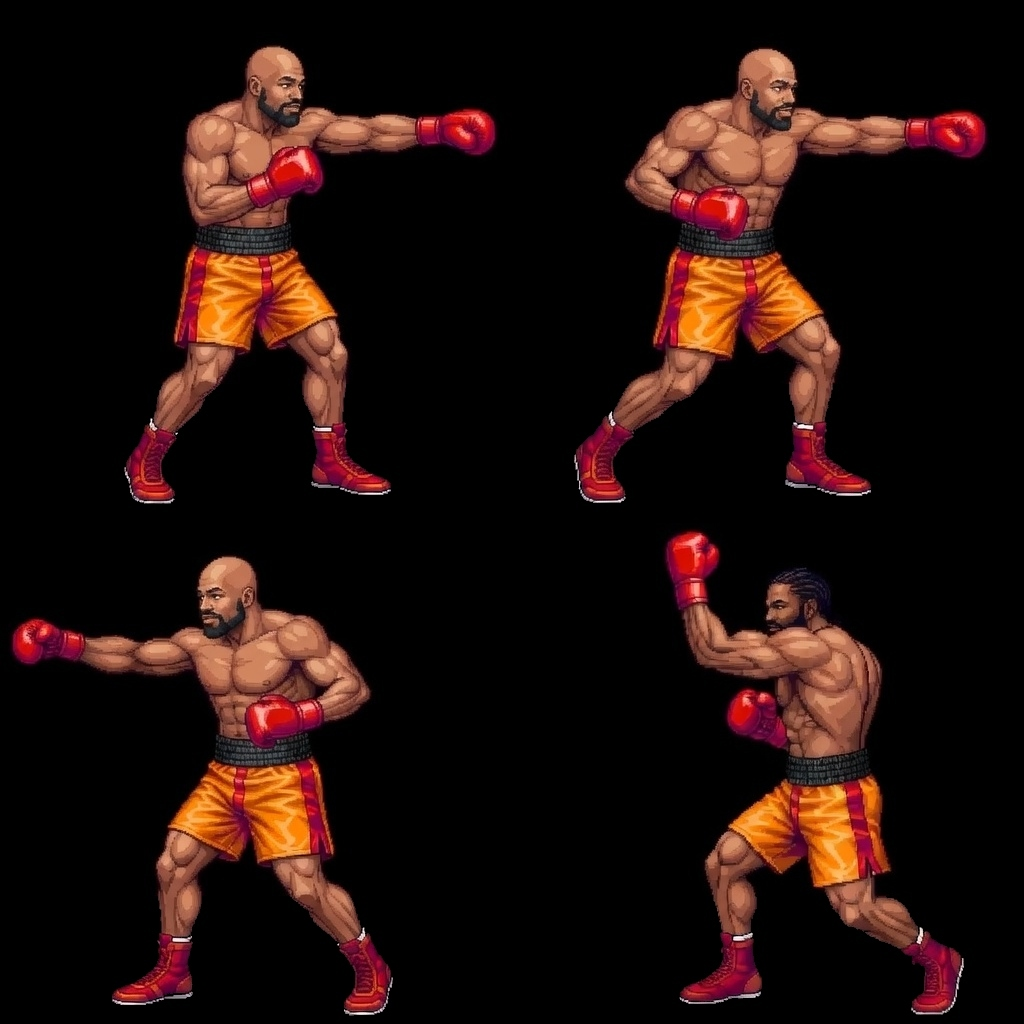
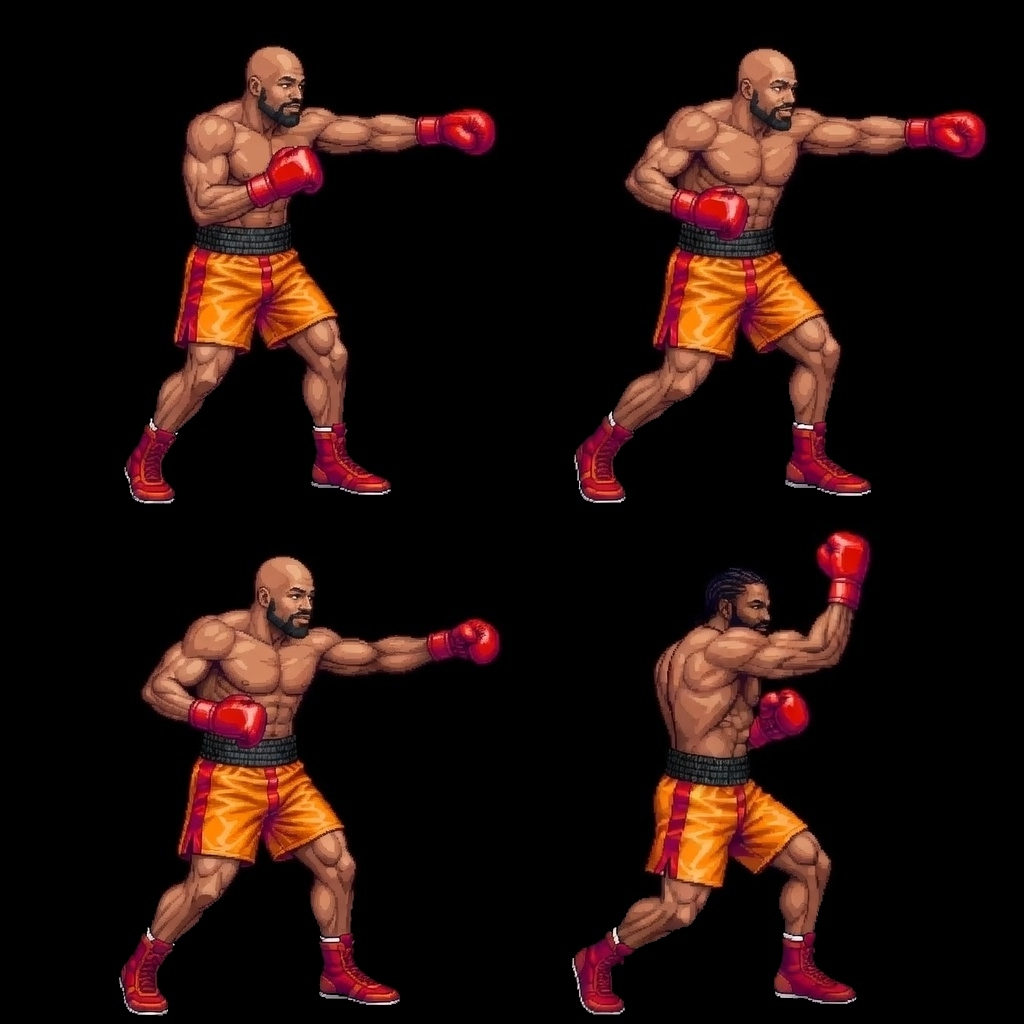
Release v2.0.0: Street Fighter Authentic Punch Animation & Roster UI Polish
Restore Capcom-style 4-quadrant sprite frame swaps during JAB,
STRAIGHT, HOOK, and UPPERCUT attacks with 3-phase strike kinematics.
Normalize all 56 punch frames to face forward into the center ring.
Add Fighter Profile Bio Screen (FIGHTER_BIO), Arena Stage Select
(ARENA_SELECT) with dynamic combat arena theming, and character
select grid polish with 2P local controls.

Constraint: 16-color PICO-8 aesthetic and fixed 128x128 resolution
Constraint: GitHub Pages deploy workflow uploads repo root
Confidence: high
Scope-risk: moderate
Directive: Do not replace punch sprite frames with procedural draw calls
Tested: 38 automated test cases in headless Chrome (states, bio, arena, combat)
Tested: 56/56 in-game punch animation captures across all 14 fighters

Changed region(s): [[0.5625, 0.5, 0.9375, 1.0], [0.0, 0.5312, 0.5, 1.0]]

diff --git a/index.html b/index.html
@@ -3,7 +3,7 @@
 <head>
   <meta charset="UTF-8">
   <meta name="viewport" content="width=device-width, initial-scale=1.0, maximum-scale=1.0, user-scalable=no, viewport-fit=cover">
-  <title>CRASH OUT: RING RUSH (v1.9.0) — PICO-8 Native Transparent Boxing</title>
+  <title>CRASH OUT: RING RUSH (v2.0.0) — PICO-8 Native Transparent Boxing</title>
   <style>
     :root {
       --pico-black: #000000;
@@ -2135,15 +2135,61 @@
     let deenIdleCanvas = null;
     deenIdleRaw.onload = () => { deenIdleCanvas = createTransparentCanvas(deenIdleRaw); };
 
+    const PUNCH_FLIPS = {
+      'broner': [0, 3],      // JAB, UPPERCUT
+      'deen': [2, 3],        // HOOK, UPPERCUT
+      'ryan': [2, 3],        // HOOK, UPPERCUT
+      'n3on': [0, 1, 3],     // JAB, STRAIGHT, UPPERCUT
+      'rayj': [2],           // HOOK
+      'charleston': [3],     // UPPERCUT
+      'bang': [3],           // UPPERCUT
+      'abrown': [3],         // UPPERCUT
+      'sneako': [3]          // UPPERCUT
+    };
+
+    function createNormalizedPunchCanvas(img, id) {
+      const rawCanvas = createTransparentCanvas(img);
+      const w = rawCanvas.width;
+      const h = rawCanvas.height;
+      const normCanvas = document.createElement('canvas');
+      normCanvas.width = w;
+      normCanvas.height = h;
+      const nCtx = normCanvas.getContext('2d');
+      nCtx.imageSmoothingEnabled = false;
+
+      const qw = w / 2;
+      const qh = h / 2;
+      const flips = PUNCH_FLIPS[id] || [];
+
+      for (let q = 0; q < 4; q++) {
+        const col = q % 2;
+        const row = Math.floor(q / 2);
+        const sx = col * qw;
+        const sy = row * qh;
+
+        nCtx.save();
+        if (flips.includes(q)) {
+          // Flip this quadrant horizontally within its cell so it faces RIGHT (toward opponent)
+          nCtx.translate(sx + qw, sy);
+          nCtx.scale(-1, 1);
+          nCtx.drawImage(rawCanvas, sx, sy, qw, qh, 0, 0, qw, qh);
+        } else {
+          nCtx.drawImage(rawCanvas, sx, sy, qw, qh, sx, sy, qw, qh);
+        }
+        nCtx.restore();
+      }
+      return normCanvas;
+    }
+
     const bronerPunchRaw = new Image();
     bronerPunchRaw.src = 'assets/broner_punches.jpg?v=1200';
     let bronerPunchCanvas = null;
-    bronerPunchRaw.onload = () => { bronerPunchCanvas = createTransparentCanvas(bronerPunchRaw); };
+    bronerPunchRaw.onload = () => { bronerPunchCanvas = createNormalizedPunchCanvas(bronerPunchRaw, 'broner'); };
 
     const deenPunchRaw = new Image();
     deenPunchRaw.src = 'assets/deen_punches.jpg?v=1200';
     let deenPunchCanvas = null;
-    deenPunchRaw.onload = () => { deenPunchCanvas = createTransparentCanvas(deenPunchRaw); };
+    deenPunchRaw.onload = () => { deenPunchCanvas = createNormalizedPunchCanvas(deenPunchRaw, 'deen'); };
 
     // 16-bit Capcom Arcade Sprites & Punch Grids Map for ALL 14 Roster Fighters
     const ROSTER_IDLE_CANVASES = {};
@@ -2159,7 +2205,7 @@
       const imgPunch = new Image();
       imgPunch.src = 'assets/' + id + '_punches.jpg?v=1200';
       imgPunch.onload = () => {
-        ROSTER_PUNCH_CANVASES[id] = createTransparentCanvas(imgPunch);
+        ROSTER_PUNCH_CANVASES[id] = createNormalizedPunchCanvas(imgPunch, id);
       };
     });
 
@@ -2202,48 +2248,57 @@
 
       let isHitFlash = false;
       let extProgress = 0;
+      let horzShift = 0;
+      let vertShift = 0;
+      let bodyTilt = 0;
+      let vertSquash = 1.0;
 
       const timerVal = animTimer || 0;
       const progress = 1.0 - (timerVal / 72.0);
-
-      // === DETERMINE WHAT TO DRAW ===
-      let usePunch = false;      // true = draw from punch grid
-      let punchQuad = 0;         // which quadrant of punch grid
-      let bodyTilt = 0;          // rotation in radians
-      let vertSquash = 1.0;      // vertical scale (< 1 = duck)
-      let horzShift = 0;         // horizontal position offset
-      let vertShift = 0;         // vertical position offset
+      let usePunch = false;
+      let punchQuad = 0;
 
       if (anim === 'JAB' || anim === 'STRAIGHT' || anim === 'HOOK' || anim === 'UPPERCUT') {
         punchQuad = PUNCH_QUAD[anim] || 0;
 
-        // Smooth lunge without rotational warping or morphing
-        if (progress < 0.15) {
-          // Windup: lean back slightly (no bodyTilt, pure horizontal step)
-          extProgress = -0.15 * Math.sin((progress / 0.15) * Math.PI);
+        // Authentic Capcom Street Fighter 3-phase Strike Kinematics:
+        // Phase 1: Windup / Anticipation (progress < 0.12) -> Idle stance with subtle backstep
+        // Phase 2: Active Strike & Impact Hold (0.12 <= progress < 0.72) -> Punch Frame with forward lunge
+        // Phase 3: Recovery (progress >= 0.72) -> Smooth return to Idle stance
+        if (progress < 0.12) {
+          extProgress = -0.15 * Math.sin((progress / 0.12) * Math.PI);
           usePunch = false;
-        } else if (progress < 0.65) {
-          // Extension & Hold: punch frame with forward step
-          usePunch = true;
+        } else if (progress < 0.72) {
           extProgress = 1.0;
+          usePunch = true;
         } else {
-          // Smooth recovery back to idle
           usePunch = (progress < 0.82);
-          const ret = (progress - 0.65) / 0.35;
-          extProgress = 1.0 - ret;
+          const ret = (progress - 0.72) / 0.28;
+          extProgress = 1.0 - smoothstep(0.0, 1.0, ret);
         }
 
-        const lungeDist = extProgress * 7.5;
-        horzShift = isP1 ? lungeDist : -lungeDist;
+        // Move-specific forward lunge distance into center ring
+        let baseLunge = 6.0;
+        if (anim === 'STRAIGHT') baseLunge = 8.5;
+        if (anim === 'HOOK') baseLunge = 7.0;
+        if (anim === 'UPPERCUT') {
+          baseLunge = 5.5;
+          if (usePunch) {
+            vertShift = -3.5; // Upward leap on uppercut
+          }
+        }
+
+        horzShift = (isP1 ? 1 : -1) * (extProgress * baseLunge);
 
         const impactFlag = isP1 ? impactTriggeredP1 : impactTriggeredP2;
-        if (progress >= 0.38 && progress < 0.62 && !impactFlag) {
+        if (progress >= 0.28 && progress < 0.60 && !impactFlag) {
           if (isP1) impactTriggeredP1 = true; else impactTriggeredP2 = true;
-          triggerImpactBurst(isP1 ? 62 : 66, anim === 'UPPERCUT' ? 56 : anim === 'HOOK' ? 58 : 62);
+          triggerImpactBurst(isP1 ? 62 : 66, anim === 'UPPERCUT' ? 54 : anim === 'HOOK' ? 58 : 60);
           triggerHaptic(30);
-        } else if (progress >= 0.90) {
+        } else if (progress >= 0.88) {
           if (isP1) impactTriggeredP1 = false; else impactTriggeredP2 = false;
         }
+
       } else if (anim === 'FLINCH') {
         let fp = 0;
         if (progress < 0.40) fp = 0;
@@ -2291,6 +2346,7 @@
 
       const fObj = isP1 ? ROSTER[p1SelectIdx] : ROSTER[p2SelectIdx];
       const fId = fObj ? fObj.id : (isP1 ? 'broner' : 'deen');
+      const details = FIGHTER_DETAILS[fId] || { skin: 4, hair: 0, trunks: 8, gloves: 8 };
 
       // P1 on left side always faces RIGHT (scale 1); P2 on right side always faces LEFT (scale -1)
       const needsFlip = !isP1;
@@ -2328,7 +2384,6 @@
         ctx.fillStyle = isP1 ? '#8C4A27' : '#C58C5D';
         ctx.fillRect(-6, -34, 12, 34);
       }
-
       ctx.filter = 'none';
       ctx.restore();
     }

diff --git a/README.md b/README.md
@@ -1,6 +1,6 @@
 # CRASH OUT: RING RUSH — PICO-8 PUZZLE BOXING
 
-**Version:** `v1.9.0` (Rematch Flow & Fluid Combat Animation Release)
+**Version:** `v2.0.0` (Street Fighter Punch Animation & Roster UI Polish Release)
 
 ![Title Screen](assets/pico8_title.jpg)
 
@@ -8,7 +8,7 @@
 
 ---
 
-## 🎮 Play Live (v1.9.0)
+## 🎮 Play Live (v2.0.0)
 
 - ⚡ **Play Live in Browser (GitHub Pages)**: **[officebeats.github.io/beats-social-media-boxer-game](https://officebeats.github.io/beats-social-media-boxer-game/)**
 - 🕹 **Native PICO-8 Cartridge**: Load [`crash_out.p8`](crash_out.p8) directly inside PICO-8 using `pico8 -run crash_out.p8`.
@@ -23,20 +23,19 @@
 
 ---
 
-## 🌟 New in v1.9.0
+## 🌟 New in v2.0.0
+- 🥊 **Authentic Street Fighter Punch Animation Engine**: Restored full-body 4-quadrant sprite frame swaps during `JAB`, `STRAIGHT`, `HOOK`, and `UPPERCUT` with Capcom 3-phase strike kinematics (windup coil, extension hold with hit sparks/haptics, and smoothstep recovery).
+- 🧭 **100% Direction-Normalized 56-Punch Matrix**: Dynamic quadrant-level orientation normalization ensures all 56 punch frames across all 14 fighters natively extend forward toward the opponent.
+- 📋 **Fighter Profile & Bio Screen (`FIGHTER_BIO`)**: 32×32 large portrait, nickname, PWR/SPD/DEF stat bars, special moves, quotes, and records accessible via `B` or touch portrait tap.
+- 🏟 **Arena Stage Selection (`ARENA_SELECT`)**: 2×2 arena select screen featuring Kick Warehouse, Mayweather Gym, Broner Gym, and Vegas Arena with dynamic crowd dither, ropes, floor, and backdrop theming in combat.
+- 🎮 **Polished Character Select & 2P Local Controls**: Full name banners, cursor pulse, locked P1/P2 indicators, and full WASD / Arrow key 2-player local battle flow.
 - 🔄 **Restored Instant Rematch Loop**: Defined `rematchToCharSelect()`, allowing players to hit `Enter`, `Space`, or action buttons on the K.O. screen to instantly reset and rematch without reload.
-- 🥊 **Fluid, Un-Warped Punch Animations**: Removed rotational body tilting on punch frames, ensuring pure horizontal lunge steps that preserve character anatomy without morphing or stretching.
-- 💥 **Universal Uppercut Direction Audit**: Flipped and normalized remaining leftward uppercuts (Blueface, Sneako, etc.) so 100% of all 56 punches across all 14 fighters extend toward the opponent.
-- 🥊 **Stream Regular Added**: **BANG WILLIAMS** (`bang` / Coach Bang), longtime Kick warehouse boxing trainer, added with custom 16-bit Capcom pixel art idle sprite and 4-quadrant punch grid.
-- 🥊 **Proportional Fousey G7 Overhaul**: Completely re-proportioned Fousey's idle sprite and punch sheet to match the authentic 16-bit Capcom arcade boxer build (eliminating the oversized chibi head mismatch).
-- 🏟 **6 Dynamic Arenas**: Kick Warehouse (pulsing neon), Vegas Strip (moving searchlights), London Misfits 00X (stadium floodlights), Miami Stream Mansion (pool & dusk), Mayweather TMT Gym, and Detroit Problem Gym.
-- 🎨 **Authentic Deen the Great Likeness**: Golden-caramel light-skinned Black complexion with sharp buzz cut.
-- 👁 **100% Direction-Normalized Sprites**: All 14 fighters natively face right, ensuring Player 1 and Player 2 always face each other eye-to-eye.
+- 🥊 **Stream Regular Added**: **BANG WILLIAMS** (`bang` / Coach Bang), longtime Kick warehouse boxing trainer, with custom 16-bit Capcom pixel art idle sprite and 4-quadrant punch grid.
+- 🥊 **Proportional Fousey G7 Overhaul**: Completely re-proportioned Fousey's idle sprite and punch sheet to match the authentic 16-bit Capcom arcade boxer build.
 - 💎 **Pure Puzzle Fighter Core Engine**: 3D beveled gems, power gem multi-cell fusion, pulsating circular crash breaker orbs, stone countdown timers, and real-time garbage offsetting.
 - 🔤 **100% Native 4x5 Pixel Font Engine**: Direct bitmap font matrix delivering razor-sharp retro typography across all screens with zero blur.
 - 🔴 **Zero Foot Artifacts**: Clean alpha transparency with grounded boots on the ring canvas floor at $Y=90$ and elliptical drop shadows.
 - 📺 **Live Broadcast Stream HUD**: Real-time Kick chat ticker with viewer counters and donation alerts.
-
 ### Title Screen
 ![Title Screen](assets/pico8_title.jpg)
 
